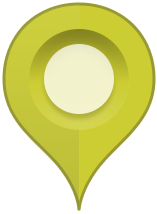
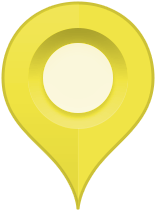
Use colour-blind safe colours for site markers and sparklines
The data age markers went from dark green through light green and yellow to red, which look almost the same with red-green colour blindness. They are now dark blue (6 hours), light blue (72 hours), yellow (2 weeks) and vermillion (out of date), from the Okabe-Ito palette. Leaf Pack-only sites move from light blue to wine so they don't clash with the new blues. The new marker images are the gray marker artwork recoloured, so their shape and shading are unchanged.

The sparkline backgrounds for current and stale data change from pale green and pale red to pale blue and pale orange.

Fixes #666

diff --git a/src/dataloaderinterface/static/dataloaderinterface/js/marker-icons.js b/src/dataloaderinterface/static/dataloaderinterface/js/marker-icons.js
@@ -18,7 +18,7 @@ function createInfoWindowContent(site) {
 function getMarkerIcon(type, color, dataTypes) {
     type = type != "affiliated" ? "fat" : "skinny";
     if (dataTypes[0] == "Leaf Pack") {
-        color = "blue";
+        color = "wine";
     }
     var icon = {
         skinny: {
@@ -67,12 +67,12 @@ function appendMarkersLegend(map) {
                 <table class="legend-table">
                     <tbody>
                         <tr>
-                            <td><img class="legend-marker" src="/static/dataloaderinterface/images/marker-darkgreen-fat-bright.png" 
+                            <td><img class="legend-marker" src="/static/dataloaderinterface/images/marker-darkblue-fat-bright.png" 
                             alt="Marker for data within last 6 hours"></td>
                             <td>Has data within the last 6 hours</td>
                         </tr>
                         <tr>
-                            <td><img class="legend-marker" src="/static/dataloaderinterface/images/marker-lightgreen-fat-bright.png" 
+                            <td><img class="legend-marker" src="/static/dataloaderinterface/images/marker-lightblue-fat-bright.png" 
                             alt="Marker for data within last 72 hours"></td>
                             <td>Has data within the last 72 hours</td>
                         </tr>
@@ -86,7 +86,7 @@ function appendMarkersLegend(map) {
                 <table class="legend-table">
                     <tbody>
                         <tr>
-                            <td><img class="legend-marker" src="/static/dataloaderinterface/images/marker-red-fat-bright.png" 
+                            <td><img class="legend-marker" src="/static/dataloaderinterface/images/marker-vermillion-fat-bright.png" 
                             alt="Marker for data out of date"></td>
                             <td>Sensor data out of date</td>
                         </tr>
@@ -96,7 +96,7 @@ function appendMarkersLegend(map) {
                             <td>Sensors have no data</td>
                         </tr>
                         <tr>
-                            <td><img class="legend-marker" src="/static/dataloaderinterface/images/marker-blue-fat-bright.png" 
+                            <td><img class="legend-marker" src="/static/dataloaderinterface/images/marker-wine-fat-bright.png" 
                             alt="Marker for sites with only Leaf Pack data"></td>
                             <td>Only Leaf Pack data</td>
                         </tr>
@@ -108,14 +108,14 @@ function appendMarkersLegend(map) {
             <table class="legend-table">
                 <tr>
                     <td>
-                        <img class="legend-marker" src="/static/dataloaderinterface/images/marker-darkgreen-skinny-bright.png" 
+                        <img class="legend-marker" src="/static/dataloaderinterface/images/marker-darkblue-skinny-bright.png" 
                         alt="Marker for sites you own">
                     </td>
                     <td>Sites you are affiliated with</td>
                 </tr>
                 <tr>
                     <td>
-                        <img class="legend-marker" src="/static/dataloaderinterface/images/marker-darkgreen-fat-bright.png" 
+                        <img class="legend-marker" src="/static/dataloaderinterface/images/marker-darkblue-fat-bright.png" 
                         alt="Marker for sites you do not own">
                     </td>
                     <td>Sites you are not affiliated with</td>

diff --git a/src/dataloaderinterface/static/dataloaderinterface/css/style.css b/src/dataloaderinterface/static/dataloaderinterface/css/style.css
@@ -378,11 +378,11 @@ div.registration-field span.control-label {
 }
 
 svg.stale {
-    background-color: #ffefef;
+    background-color: #f8e5d6;
 }
 
 svg.not-stale {
-    background-color: #ebffe8;
+    background-color: #d6e8f3;
 }
 
 .last-observation {

diff --git a/src/dataloaderinterface/templatetags/helpers.py b/src/dataloaderinterface/templatetags/helpers.py
@@ -66,10 +66,10 @@ def data_age(value):
     val = datetime.utcnow() - value
 
     if val < timedelta(hours=6):
-        return "darkgreen"
+        return "darkblue"
     elif val < timedelta(hours=72):
-        return "lightgreen"
+        return "lightblue"
     elif val < timedelta(hours=336):
         return "yellow"
     else:
-        return "red"
+        return "vermillion"
